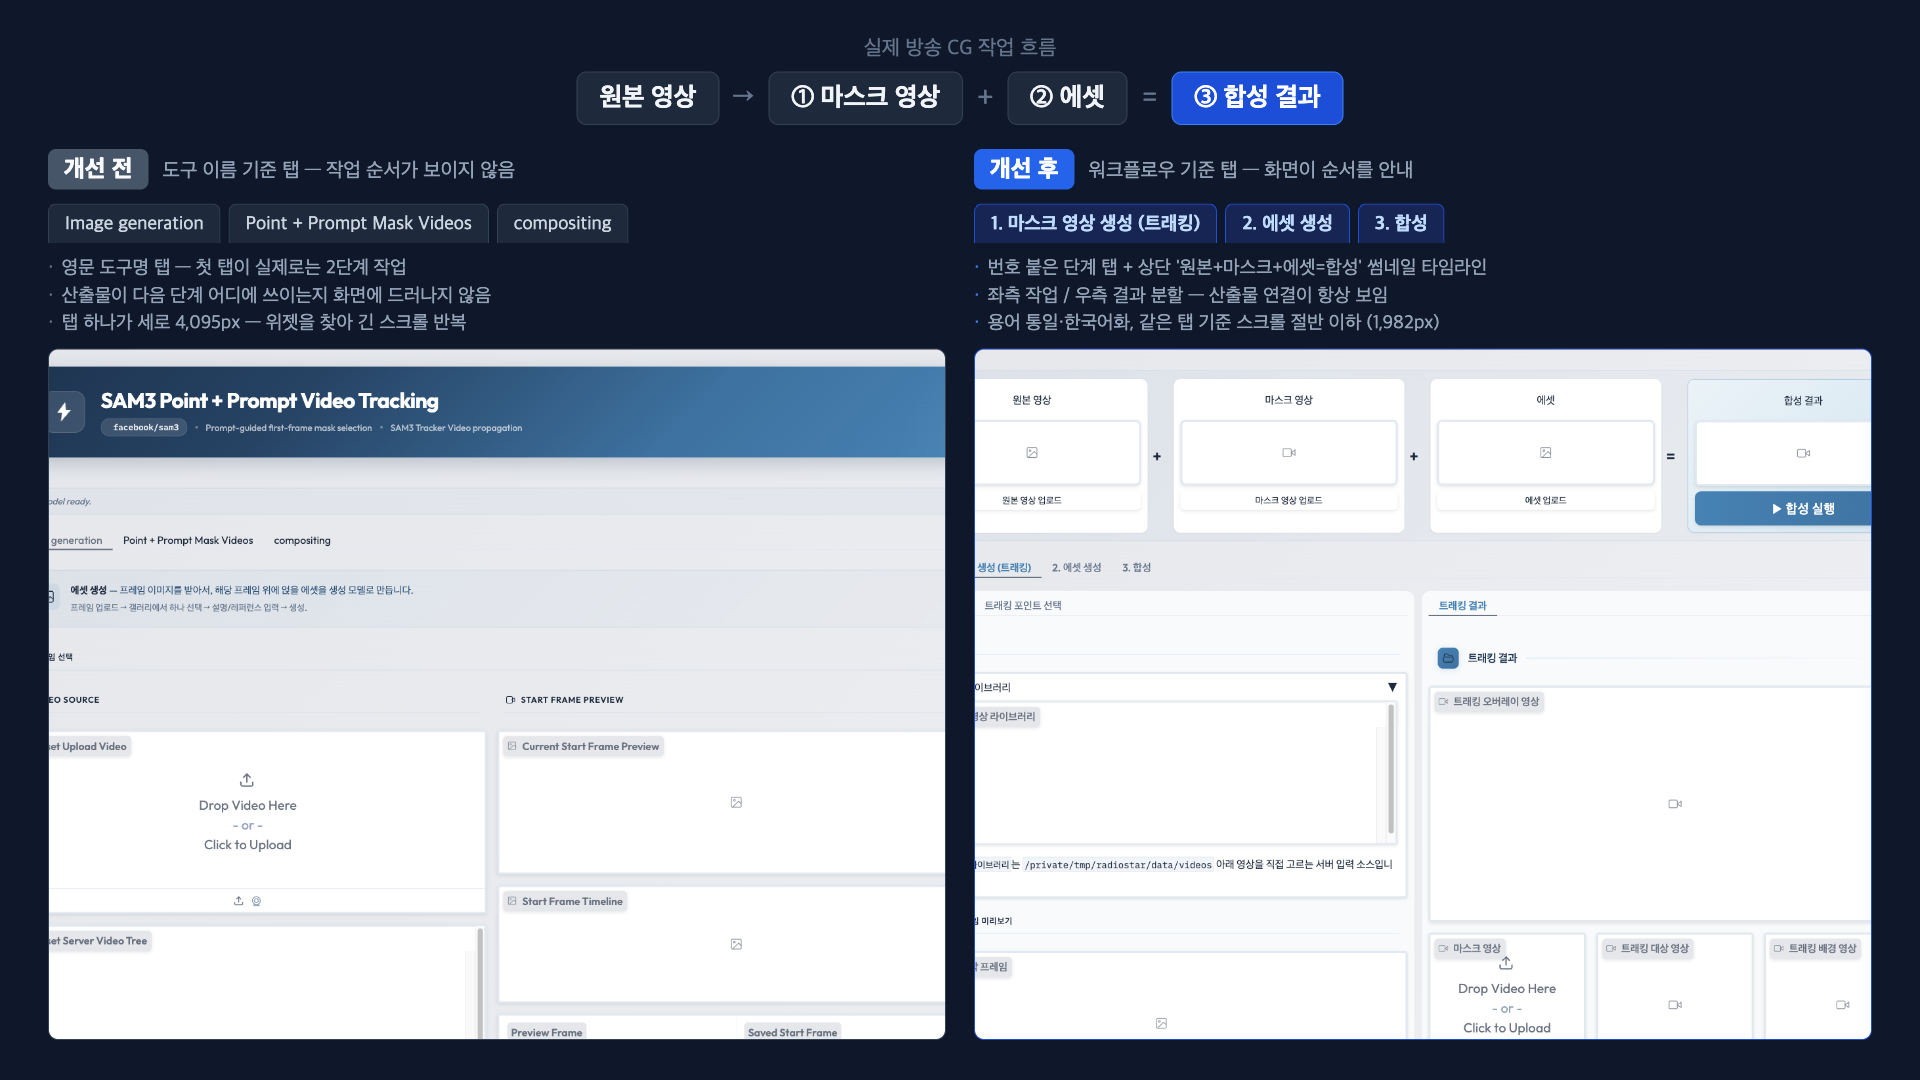
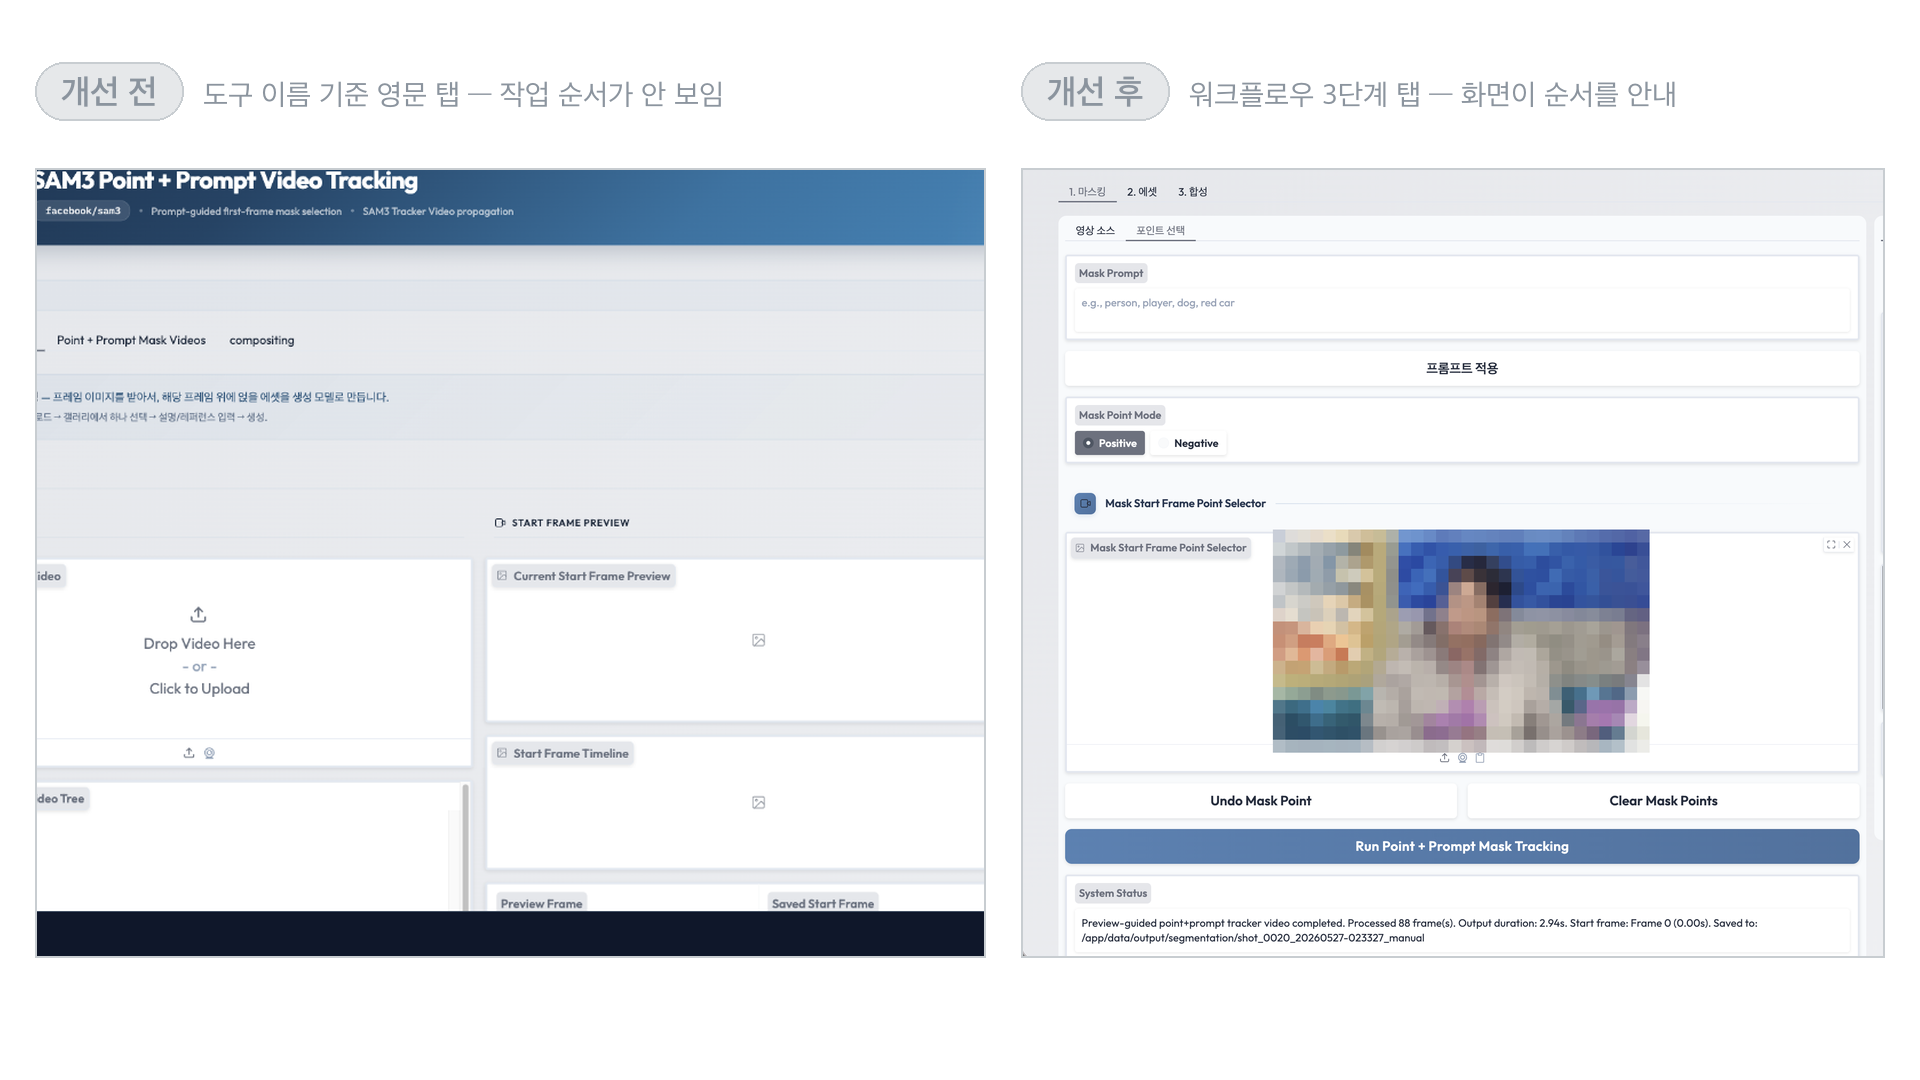
fix: CG 전후 비교 이미지를 투명 배경으로 재합성
- 남색 카드 배경 제거 — 콘텐츠 영역 배경이 그대로 비치도록 투명 PNG로 교체
- 개선 후 스샷을 PR 원본 풀샷으로 교체 (좌우 잘림 해소), 방송 장면은 모자이크
- 개선 전 스샷은 남은 유일본을 자르지 않고 통째로 사용, 잘린 글자 경계만 정리
- 칩·캡션은 라이트/다크 모두 읽히는 중간 회색으로 베이크
- figure의 bg-muted 제거 (투명 영역에 박스가 비치던 문제)

diff --git a/src/components/sections/PersonalSection.tsx b/src/components/sections/PersonalSection.tsx
@@ -338,7 +338,7 @@ export default function PersonalSection() {
                               ))}
                             </ul>
                             {group.imageUrl && (
-                              <figure className="relative w-full mt-4 overflow-hidden bg-muted rounded-md aspect-video">
+                              <figure className="relative w-full mt-4 overflow-hidden rounded-md aspect-video">
                                 <a
                                   href={group.imageUrl}
                                   target="_blank"
